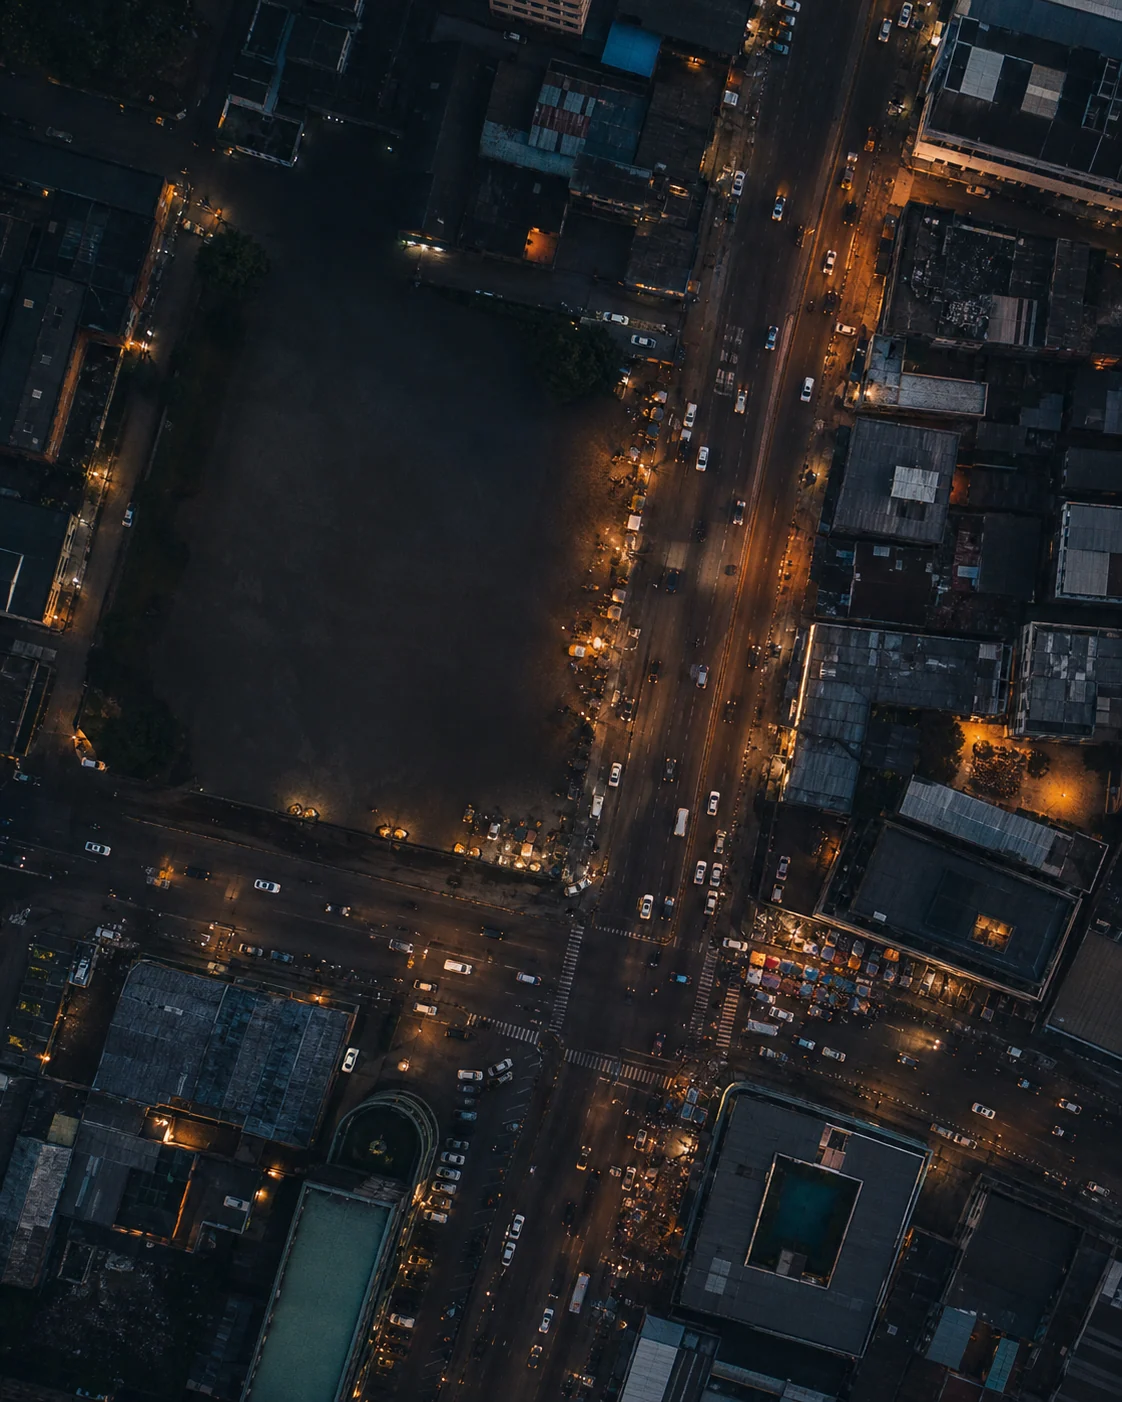
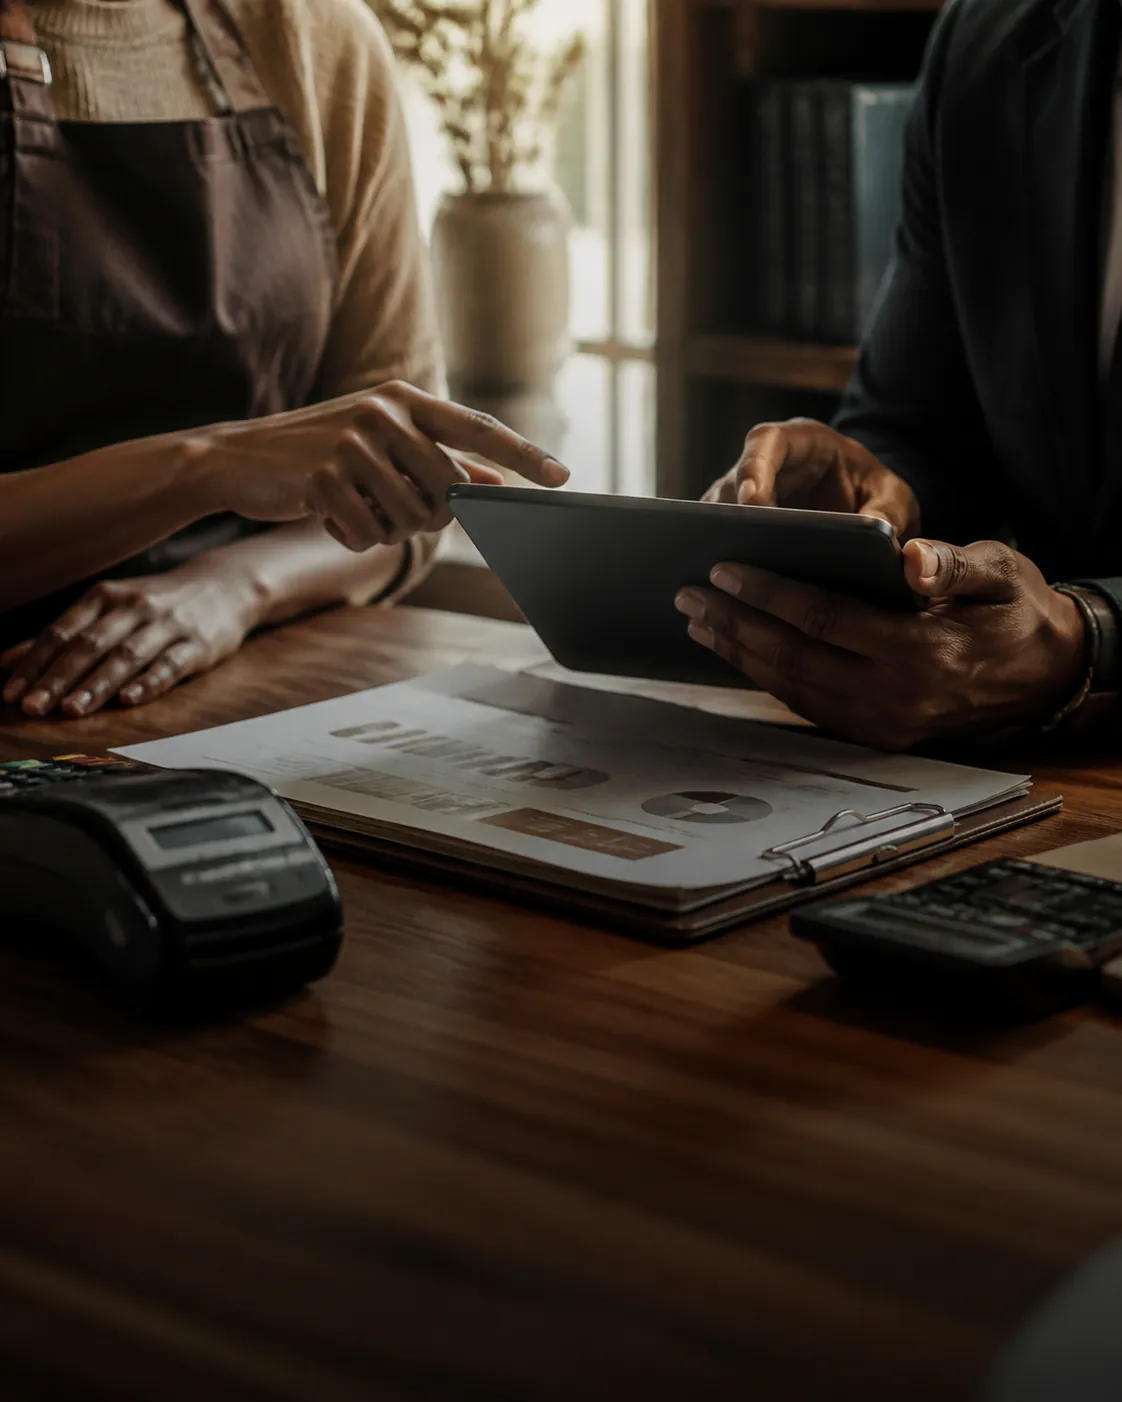
Update customer stories to feature Art Circles

diff --git a/apps/landing/src/modules/home/customer-stories.tsx b/apps/landing/src/modules/home/customer-stories.tsx
@@ -10,12 +10,12 @@ import { PlusIcon } from "icons";
 import { cn } from "lib";
 import { Box, Text } from "ui";
 import { Container } from "@/components/ui";
+import artCirclesLogo from "../../../public/images/brands/artcircles.png";
 import finLogo from "../../../public/images/brands/fin.png";
 import miningoLogo from "../../../public/images/brands/miningo.svg";
-import zimboriginalLogo from "../../../public/images/brands/zimboriginal.png";
+import artCirclesImage from "../../../public/images/testimonials/art-circles-studio.webp";
 import finImage from "../../../public/images/testimonials/fin-city.webp";
 import miningoImage from "../../../public/images/testimonials/miningo-geospatial.webp";
-import zimboriginalImage from "../../../public/images/testimonials/zimboriginal-studio.webp";
 
 type CustomerStory = {
   author: string;
@@ -75,16 +75,16 @@ const customerStories: readonly CustomerStory[] = [
     role: "Founder & Spatial Data Scientist",
   },
   {
-    author: "Shungu C. Chidovi",
-    company: "Zimboriginal",
-    id: "zimboriginal",
-    image: zimboriginalImage,
+    author: "Hector Vidal",
+    company: "Art Circles",
+    id: "art-circles",
+    image: artCirclesImage,
     imageClassName: "object-center",
-    logo: zimboriginalLogo,
+    logo: artCirclesLogo,
     logoClassName: "h-7 w-auto max-w-40",
     quote:
-      "I can capture an idea while it’s still rough, shape it clearly, and keep it moving without losing anything important.",
-    role: "Founder, Writer & Teacher",
+      "As we build tools for galleries, artists, and collectors, FortyOne turns their feedback into clear priorities and keeps our team aligned on what the art world needs next.",
+    role: "Founder",
   },
 ];
 
